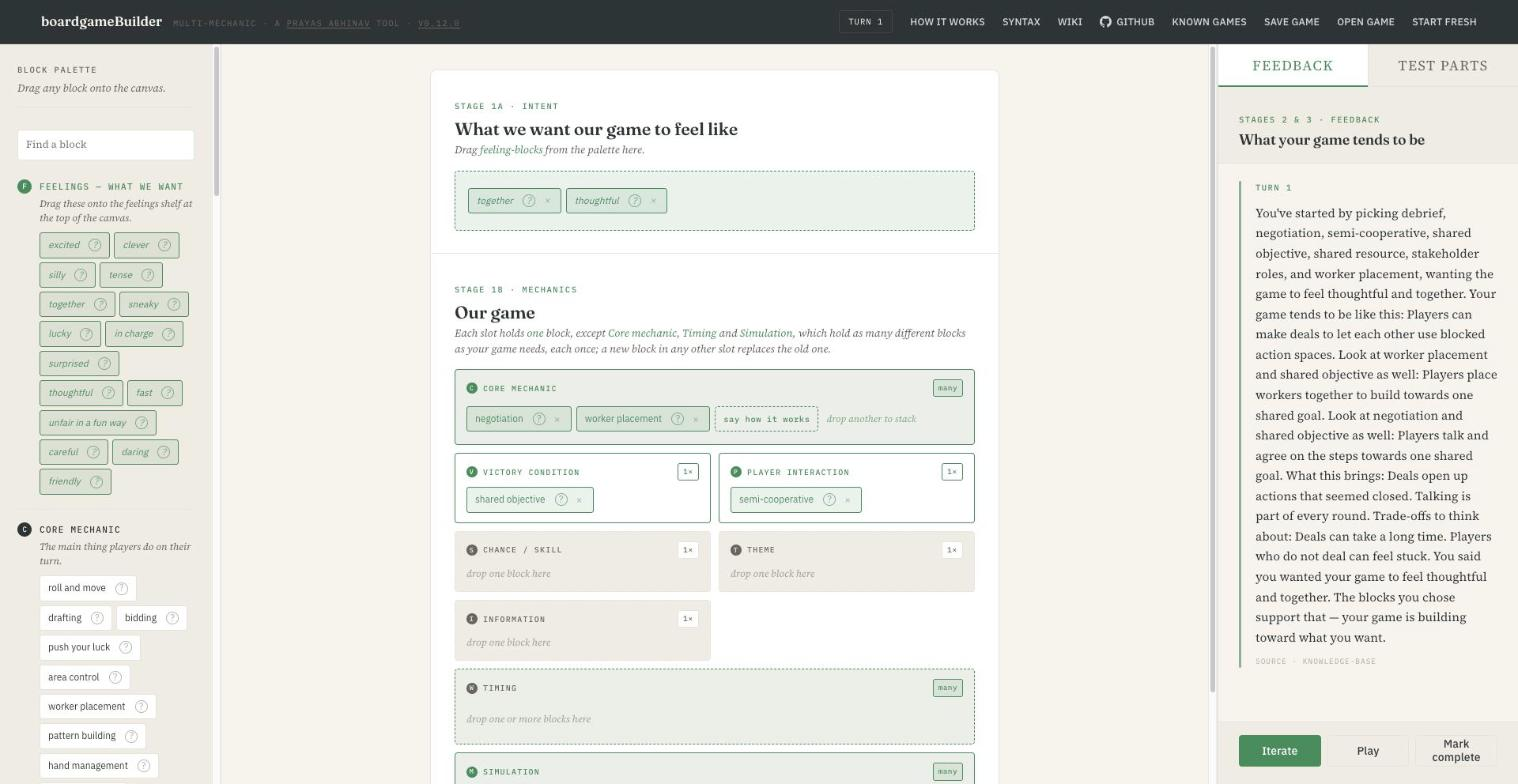
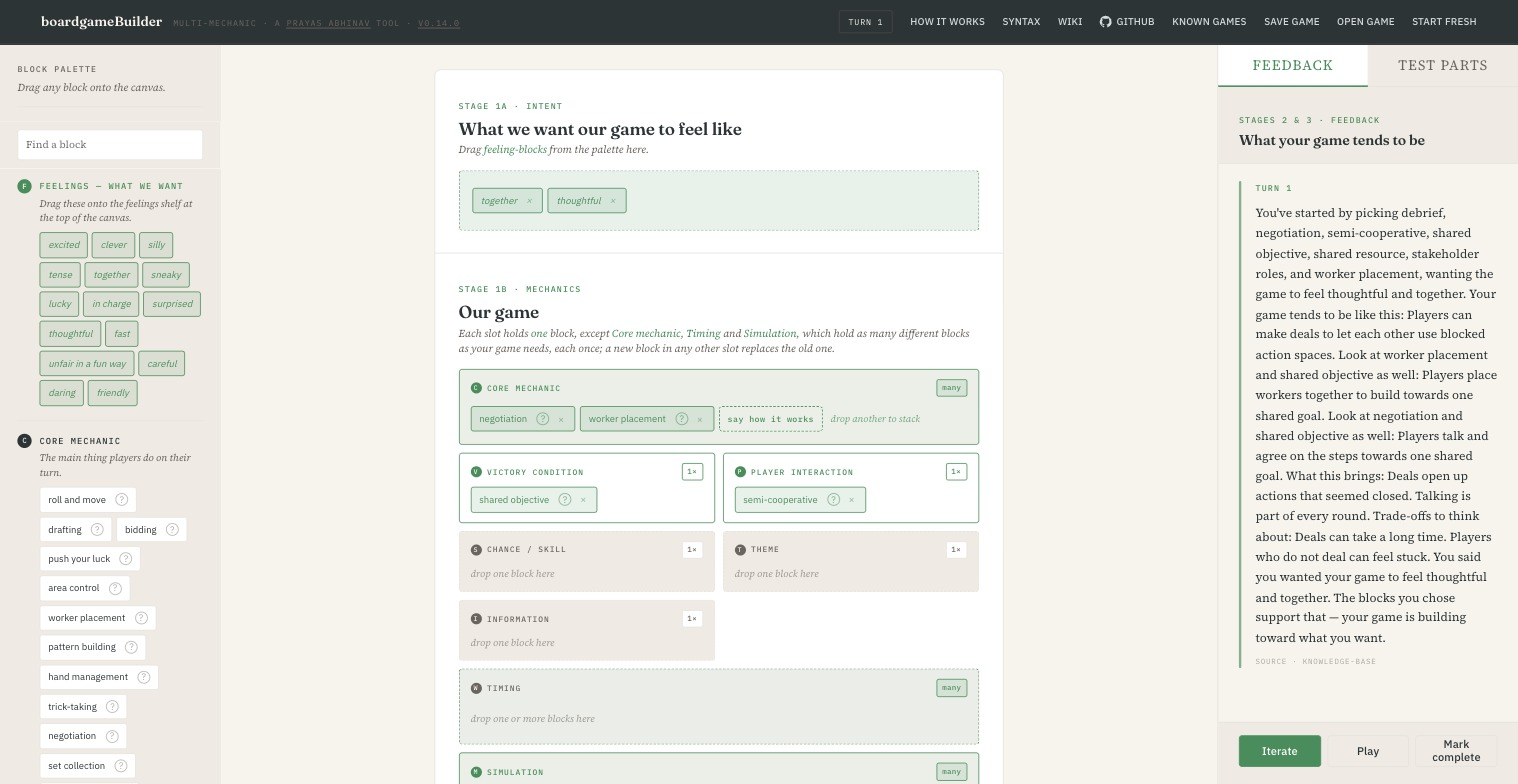
Add a gameplay box with @tags, and drop the ? from the feelings (0.14.0)
How our game plays sits under the slots: typing @ lists the blocks on the canvas by their box, and tagging a block tags its box, listed under the text and marked on the slot. The text is saved with the design and in Save game's file. The ? opened nothing for a feeling, so feelings no longer show one. The link-preview card is redrawn from a new screenshot.

diff --git a/static/app.js b/static/app.js
@@ -20,6 +20,7 @@ const state = {
   turnHistory: [],       // [{ turn: N, narration, source, kind: "turn"|"complete" }, ...]
   answers: {},           // { [blockId]: { [questionKey]: optionValue } } — answers to the questions asked when a block is placed
   tests: {},             // { [testKey]: { feelings, match, note } } — notes from the part tests
+  narrative: "",         // how the game plays, in the designer's words; "@Block" tags a block on the canvas
   pendingAnswers: null,
 };
 
@@ -36,6 +37,7 @@ function snapshot() {
     turnHistory: state.turnHistory,
     answers: state.answers,
     tests: state.tests,
+    narrative: state.narrative,
     savedAt: new Date().toISOString(),
   };
 }
@@ -64,6 +66,7 @@ function loadState() {
     state.turnHistory = Array.isArray(saved.turnHistory) ? saved.turnHistory : [];
     state.answers = saved.answers && typeof saved.answers === "object" ? saved.answers : {};
     state.tests = saved.tests && typeof saved.tests === "object" ? saved.tests : {};
+    state.narrative = typeof saved.narrative === "string" ? saved.narrative : "";
 
     // A block that has moved to another group since the design was saved goes with it (real-time span moved to Timing)
     for (const [dimId, value] of Object.entries(state.mechanics)) {
@@ -259,7 +262,9 @@ function createBlock(id, display, dim, { inSlot = false, meta = null } = {}) {
   label.textContent = display;
   el.appendChild(label);
 
-  // Info button (?). Tap → modal with description + SVG.
+  // Info button (?). Tap → modal with description + SVG. Mechanic blocks only: a feeling has no page to open
+  // (Prayas, 24 October 2026: "the feelings blocks question marks dont work - remove them").
+  if (dim !== "feeling") {
   const infoBtn = document.createElement("button");
   infoBtn.type = "button";
   infoBtn.className = "info-btn";
@@ -275,6 +280,7 @@ function createBlock(id, display, dim, { inSlot = false, meta = null } = {}) {
   infoBtn.addEventListener("mousedown", (e) => e.stopPropagation());
   infoBtn.addEventListener("dragstart", (e) => { e.preventDefault(); e.stopPropagation(); });
   el.appendChild(infoBtn);
+  }
 
   if (inSlot) {
     const x = document.createElement("span");
@@ -345,6 +351,7 @@ function seenOnboarding() {
 function renderMechanicsGrid() {
   const grid = document.getElementById("mechanicsGrid");
   grid.innerHTML = "";
+  queueMicrotask(renderNarrativeTags);   // re-mark the tagged boxes once the slots are drawn
   for (const dim of state.dimensions) {
     const slot = document.createElement("div");
     slot.className = "mechanic-slot";
@@ -455,6 +462,7 @@ function renderMechanicsGrid() {
 function renderFeelingsShelf() {
   const shelf = document.getElementById("feelingsShelf");
   shelf.innerHTML = "";
+  queueMicrotask(renderNarrativeTags);   // a block that leaves the shelf leaves the tags too
   if (state.chosenFeelings.length === 0) {
     const hint = document.createElement("div");
     hint.className = "empty-hint";
@@ -736,6 +744,7 @@ function setButtonsEnabled(on) {
 
 function applyLockedUi() {
   document.querySelector(".app-main").classList.add("locked");
+  document.getElementById("narrativeText").readOnly = true;
   document.getElementById("feedbackActions").style.display = "none";
 }
 
@@ -1362,6 +1371,111 @@ function renderCardsScene(svg, scene, make, W, H) {
 }
 
 
+// ── How our game plays: a narrative box with @tags ────────────────
+// Tagging a block tags the box it sits in on the canvas (its slot, or the feelings shelf), so each tag shows as part of its box
+// (Prayas, 24 October 2026: "When you tag an element all the the box it's inside of also gets tagged").
+
+// Every block on the canvas, with its box
+function canvasEntries() {
+  const feelings = state.chosenFeelings.map((id) => ({ id, display: displayOf(id), box: "feeling", boxLabel: "Feelings", letter: "♥" }));
+  const blocks = state.dimensions.flatMap((d) => [].concat(state.mechanics[d.id] || [])
+    .map((id) => ({ id, display: displayOf(id), box: d.id, boxLabel: d.slot_label, letter: dimensionLetter(d.id) })));
+  return [...feelings, ...blocks];
+}
+
+// The blocks tagged in the text: those on the canvas, and any tag whose block has since left it
+function narrativeTags(text = state.narrative) {
+  const onCanvas = canvasEntries().filter((e) => text.includes("@" + e.display));
+  const here = new Set(onCanvas.map((e) => e.display));
+  const gone = [...state.feelings, ...state.dimensions.flatMap((d) => d.blocks)]
+    .map((b) => b.display).filter((name) => !here.has(name) && text.includes("@" + name));
+  return { onCanvas, gone: [...new Set(gone)] };
+}
+
+function renderNarrativeTags() {
+  const { onCanvas, gone } = narrativeTags();
+  const boxes = new Map();
+  for (const e of onCanvas) {
+    if (!boxes.has(e.box)) boxes.set(e.box, { ...e, names: [] });
+    if (!boxes.get(e.box).names.includes(e.display)) boxes.get(e.box).names.push(e.display);
+  }
+  document.getElementById("narrativeTags").innerHTML = [...boxes.values()].map((b) =>
+    `<span class="narrative-tag"><span class="slot-letter">${escapeHtml(b.letter)}</span>${escapeHtml(b.boxLabel)} › <b>${b.names.map(escapeHtml).join(", ")}</b></span>`).join("")
+    + (gone.length ? `<span class="narrative-tag gone">no longer on the canvas: ${gone.map(escapeHtml).join(", ")}</span>` : "");
+  const tagged = new Set(onCanvas.map((e) => e.box));
+  document.querySelectorAll(".mechanic-slot").forEach((s) => s.classList.toggle("tagged", tagged.has(s.dataset.dim)));
+  document.getElementById("feelingsShelf").classList.toggle("tagged", tagged.has("feeling"));
+}
+
+let narrativeMenuAt = -1;   // the highlighted choice, or -1 when the menu is closed
+
+function narrativeQuery() {
+  const ta = document.getElementById("narrativeText");
+  const m = /@([^@\n]{0,40})$/.exec(ta.value.slice(0, ta.selectionStart));
+  return m ? { start: ta.selectionStart - m[0].length, q: m[1].toLowerCase() } : null;
+}
+
+function openNarrativeMenu() {
+  const menu = document.getElementById("narrativeMenu"), found = narrativeQuery();
+  if (!found || state.locked) { menu.hidden = true; narrativeMenuAt = -1; return; }
+  const all = canvasEntries();
+  const choices = all.filter((e) => e.display.toLowerCase().includes(found.q));
+  if (!choices.length) {
+    menu.innerHTML = `<div class="narrative-menu-empty">${all.length ? "No block on the canvas by that name." : "Put blocks on the canvas to tag them."}</div>`;
+    narrativeMenuAt = -1;
+  } else {
+    narrativeMenuAt = Math.min(Math.max(narrativeMenuAt, 0), choices.length - 1);
+    menu.innerHTML = choices.map((e, i) => `<button type="button" role="option" class="narrative-choice${i === narrativeMenuAt ? " on" : ""}" data-name="${escapeHtml(e.display)}">
+      <span class="slot-letter">${escapeHtml(e.letter)}</span><span class="choice-box">${escapeHtml(e.boxLabel)} ›</span> ${escapeHtml(e.display)}</button>`).join("");
+  }
+  menu.hidden = false;
+}
+
+function insertNarrativeTag(name) {
+  const ta = document.getElementById("narrativeText"), found = narrativeQuery();
+  if (!found) return;
+  const tag = "@" + name + " ";
+  ta.value = ta.value.slice(0, found.start) + tag + ta.value.slice(ta.selectionStart);
+  ta.selectionStart = ta.selectionEnd = found.start + tag.length;
+  ta.focus();
+  onNarrativeInput();
+}
+
+function onNarrativeInput() {
+  state.narrative = document.getElementById("narrativeText").value;
+  openNarrativeMenu();
+  renderNarrativeTags();
+  saveState();
+}
+
+function setupNarrative() {
+  const ta = document.getElementById("narrativeText"), menu = document.getElementById("narrativeMenu");
+  ta.value = state.narrative;
+  ta.readOnly = state.locked;
+  ta.addEventListener("input", onNarrativeInput);
+  ta.addEventListener("click", openNarrativeMenu);
+  ta.addEventListener("blur", () => setTimeout(() => { menu.hidden = true; narrativeMenuAt = -1; }, 150));
+  ta.addEventListener("keydown", (e) => {
+    if (menu.hidden) return;
+    const choices = menu.querySelectorAll(".narrative-choice");
+    if (e.key === "Escape") { menu.hidden = true; narrativeMenuAt = -1; return; }
+    if (!choices.length) return;
+    if (e.key === "ArrowDown" || e.key === "ArrowUp") {
+      e.preventDefault();
+      narrativeMenuAt = (narrativeMenuAt + (e.key === "ArrowDown" ? 1 : -1) + choices.length) % choices.length;
+      openNarrativeMenu();
+    } else if (e.key === "Enter" || e.key === "Tab") {
+      e.preventDefault();
+      insertNarrativeTag(choices[narrativeMenuAt].dataset.name);
+    }
+  });
+  menu.addEventListener("mousedown", (e) => {          // mousedown, so the textarea keeps its caret
+    const b = e.target.closest(".narrative-choice");
+    if (b) { e.preventDefault(); insertNarrativeTag(b.dataset.name); }
+  });
+  renderNarrativeTags();
+}
+
 // ── Save and open as Markdown ─────────────────────────────────────
 // The file reads as a record of the game, and ends with the saved state as JSON, which is what Open game reads back.
 
@@ -1385,6 +1499,14 @@ async function onSaveGame() {
   lines.push(...(rows.length ? rows : ["No blocks yet."]), "");
   const said = Object.keys(state.answers).filter((b) => answerSummary(b)).map((b) => `- ${displayOf(b)}: ${answerSummary(b, ", ")}`);
   if (said.length) lines.push("## How our blocks work", "", ...said, "");
+  if (state.narrative.trim()) {
+    lines.push("## How our game plays", "", state.narrative.trim(), "");
+    const { onCanvas } = narrativeTags();
+    const byBox = {};
+    for (const e of onCanvas) (byBox[e.boxLabel] ??= new Set()).add(e.display);
+    const tagRows = Object.entries(byBox).map(([box, names]) => `- ${box}: ${[...names].join("; ")}`);
+    if (tagRows.length) lines.push("Tagged, by box:", "", ...tagRows, "");
+  }
   const tried = Object.entries(state.tests).filter(([k]) => titles[k]).map(([k, r]) => `- ${titles[k]}: ` +
     [r.feelings.length && `it felt ${r.feelings.join(", ")}`, r.match && `matched what we wanted: ${r.match}`, r.note && `one thing we would change: ${r.note}`].filter(Boolean).join("; "));
   if (tried.length) lines.push("## What we tested", "", ...tried, "");
@@ -1448,6 +1570,7 @@ document.addEventListener("DOMContentLoaded", async () => {
   }
 
   setupFeelingsDropZone();
+  setupNarrative();
   document.getElementById("iterateBtn").addEventListener("click", onIterate);
   document.getElementById("completeBtn").addEventListener("click", onComplete);
   document.getElementById("gamesCloseBtn").addEventListener("click", leave);

diff --git a/static/index.html b/static/index.html
@@ -95,6 +95,21 @@
           <div class="mechanics-grid" id="mechanicsGrid"><!-- populated by app.js --></div>
         </div>
 
+        <div class="canvas-divider"></div>
+
+        <div class="canvas-region">
+          <div class="region-header">
+            <span class="region-eyebrow">Stage 1c · Gameplay</span>
+            <h2 class="region-title">How our game plays</h2>
+            <p class="region-hint">Write how the game goes. Type <em>@</em> to tag a block on the canvas; the box it sits in is tagged with it.</p>
+          </div>
+          <div class="narrative">
+            <textarea id="narrativeText" rows="6" spellcheck="true" placeholder="Each turn, a player…"></textarea>
+            <div class="narrative-menu" id="narrativeMenu" role="listbox" hidden></div>
+          </div>
+          <div class="narrative-tags" id="narrativeTags"></div>
+        </div>
+
       </div>
 
     </section>
@@ -121,12 +136,13 @@
         <ol class="onboarding-steps">
           <li><strong>Say how the game should feel.</strong> Drag a feeling, such as “tense” or “together”, from the left onto the shelf at the top.</li>
           <li><strong>Build the game.</strong> Drag blocks into the slots. Each block fits only its own slot. __MULTI_SLOTS__ hold as many different blocks as your game needs, each once; every other slot holds one, and a new block replaces the old one.</li>
+          <li><strong>Write how it plays.</strong> In the box under the slots, type <em>@</em> to tag a block on the canvas; the box it sits in is tagged with it.</li>
           <li><strong>Press Iterate.</strong> The tool looks up what your blocks tend to do together in a list prepared in advance, and says what is taking shape. Nothing is generated while you play.</li>
           <li><strong>Change something and press Iterate again.</strong> Each press is one turn. When you are done, press <em>Mark complete</em> for a closing summary.</li>
           <li><strong>Press Play to play it.</strong> The screen plays every block it has a rule for, with people or with players it moves by fixed rules, and lists what the people at the table do themselves.</li>
         </ol>
         <p class="onboarding-note"><em>Known games</em> in the header has short games to play with things at hand, then watch and answer questions about. <em>Test parts</em> beside the feedback has quick tests of one block at a time.</p>
-        <p class="onboarding-note">Press <strong>?</strong> on any block to see what it means. Your design stays in this browser; <em>Save game</em> downloads it as a file you can open again later, and <em>Start fresh</em> clears it.</p>
+        <p class="onboarding-note">Press <strong>?</strong> on any block to see what it means (the feelings have none). Your design stays in this browser; <em>Save game</em> downloads it as a file you can open again later, and <em>Start fresh</em> clears it.</p>
         <button class="k-btn-primary onboarding-start" id="onboardingStart" type="button">Start designing</button>
       </div>
     </div>

diff --git a/static/style.css b/static/style.css
@@ -399,6 +399,102 @@ body {
   opacity: 0.75;
 }
 
+/* ── How our game plays: the narrative box and its @tags ─────────── */
+
+.narrative { position: relative; }
+
+.narrative textarea {
+  width: 100%;
+  box-sizing: border-box;
+  min-height: 140px;
+  padding: 12px 14px;
+  font-family: var(--font-body);
+  font-size: 15px;
+  line-height: 1.55;
+  color: var(--ink);
+  background: white;
+  border: 1px solid var(--surface-border);
+  border-radius: 4px;
+  resize: vertical;
+}
+
+.narrative textarea:focus { outline: none; border-color: var(--accent); box-shadow: 0 0 0 3px var(--accent-bg); }
+.narrative textarea[readonly] { background: var(--surface-inner); }
+
+.narrative-menu {
+  position: absolute;
+  left: 0;
+  right: 0;
+  top: calc(100% + 4px);
+  z-index: 20;
+  max-height: 260px;
+  overflow-y: auto;
+  background: white;
+  border: 1px solid var(--accent);
+  border-radius: 4px;
+  box-shadow: 0 8px 24px rgba(45, 52, 54, 0.18);
+  padding: 4px;
+}
+
+.narrative-choice {
+  display: flex;
+  align-items: center;
+  gap: 8px;
+  width: 100%;
+  padding: 8px 10px;
+  border: 0;
+  border-radius: 3px;
+  background: none;
+  font-family: var(--font-label);
+  font-size: 14px;
+  color: var(--ink);
+  text-align: left;
+  cursor: pointer;
+}
+
+.narrative-choice.on, .narrative-choice:hover { background: var(--accent-bg); }
+.narrative-choice .choice-box { font-family: var(--font-mono); font-size: 11px; color: var(--ink3); }
+.narrative-menu-empty { padding: 8px 10px; font-family: var(--font-body); font-style: italic; font-size: 13px; color: var(--ink3); }
+
+.narrative-tags { display: flex; flex-wrap: wrap; gap: 6px; margin-top: 10px; }
+.narrative-tags:empty { display: none; }
+
+.narrative-tag {
+  display: inline-flex;
+  align-items: center;
+  gap: 6px;
+  padding: 4px 9px;
+  font-family: var(--font-mono);
+  font-size: 11px;
+  color: var(--ink2);
+  background: var(--accent-bg);
+  border: 1px solid var(--accent);
+  border-radius: 3px;
+}
+
+.narrative-tag b { font-family: var(--font-label); font-size: 12px; font-weight: 600; color: var(--ink); }
+.narrative-tag.gone { background: none; border-style: dashed; border-color: var(--surface-border); color: var(--ink3); }
+
+/* a box with a block tagged in the gameplay carries an @ at its corner */
+.mechanic-slot.tagged::after, .feelings-shelf.tagged::after {
+  content: "@";
+  position: absolute;
+  top: -9px;
+  right: -9px;
+  width: 20px;
+  height: 20px;
+  display: grid;
+  place-items: center;
+  font-family: var(--font-mono);
+  font-size: 11px;
+  font-weight: 600;
+  color: white;
+  background: var(--accent);
+  border-radius: 50%;
+}
+
+.feelings-shelf { position: relative; }
+
 /* ── Mechanics grid (slots) ─────────────────────────────────────── */
 
 .mechanics-grid {

diff --git a/README.md b/README.md
@@ -1,7 +1,7 @@
 # boardgameBuilder
 
 [![Live](https://img.shields.io/badge/live-boardgame.blevn.xyz-2e7d32?style=flat-square)](https://boardgame.blevn.xyz)
-[![Version](https://img.shields.io/badge/version-0.13.1-555555?style=flat-square)](CHANGELOG.md)
+[![Version](https://img.shields.io/badge/version-0.14.0-555555?style=flat-square)](CHANGELOG.md)
 [![Licence: AGPL v3](https://img.shields.io/badge/licence-AGPL--3.0-blue?style=flat-square)](LICENSE)
 [![Python 3.10+](https://img.shields.io/badge/python-3.10%2B-3776ab?style=flat-square&logo=python&logoColor=white)](https://www.python.org/)
 [![FastAPI](https://img.shields.io/badge/FastAPI-backend-009688?style=flat-square&logo=fastapi&logoColor=white)](https://fastapi.tiangolo.com/)
@@ -49,7 +49,7 @@ A small browser tool for designing a board game by putting blocks together and r
 The screen has three columns.
 
 - **Left: the palette.** The feelings at the top, then eight groups of blocks for the parts of a game. A search box above them shows only the blocks whose name or description holds the words typed, or a whole group when its name is typed; Esc clears it.
-- **Centre: the canvas.** A shelf for the feelings you want the game to have, and one slot for each group of blocks.
+- **Centre: the canvas.** A shelf for the feelings you want the game to have, one slot for each group of blocks, and a box below them for writing how the game plays.
 - **Right: the feedback.** Each press of **Iterate** reads the canvas and says what the combination tends to produce, what it brings, its trade-offs, any clash between blocks, whether the blocks serve the feelings you picked, and real games built on something similar where one has been checked.
 
 You change a block, press Iterate again and see what moved. **Mark complete** writes a closing summary and locks the canvas.
@@ -59,14 +59,15 @@ You change a block, press Iterate again and see what moved. **Mark complete** wr
 1. Drag one or more **feelings** (tense, clever, together, sneaky…) onto the shelf at the top.
 2. Drag **blocks** into the slots. A block only fits its own slot.
 3. **Core mechanic**, **Timing** and **Simulation** hold as many different blocks as your game needs, each once. Every other slot holds one, and a new block replaces the old one.
-4. Press **Iterate**. Each press is one turn of design; the panel keeps the history.
-5. Press the **?** on any block for a short description and a drawing.
-6. When a block has questions about how it works in your game, they open as you drop it; answer any you can, and change them later from the line under the block.
-7. **Test parts**, beside the feedback, has short tests of one block, or two together, to play with things at hand; say how each felt.
-8. Press **Play** to play the design on screen (see [Playing it on screen](#playing-it-on-screen)).
-9. Press **Mark complete** for the summary, which ends with your answers and test notes in your own terms. **Start fresh** in the header clears everything.
+4. Write **how the game plays** in the box under the slots. Type **@** to tag a block on the canvas: the box it sits in is tagged with it, the tags are listed under the text by box (*Core mechanic › roll and move*), and a tagged slot carries an **@** at its corner. A tag whose block has left the canvas is listed as no longer on it.
+5. Press **Iterate**. Each press is one turn of design; the panel keeps the history.
+6. Press the **?** on any block for a short description and a drawing. The feelings have none.
+7. When a block has questions about how it works in your game, they open as you drop it; answer any you can, and change them later from the line under the block.
+8. **Test parts**, beside the feedback, has short tests of one block, or two together, to play with things at hand; say how each felt.
+9. Press **Play** to play the design on screen (see [Playing it on screen](#playing-it-on-screen)).
+10. Press **Mark complete** for the summary, which ends with your answers and test notes in your own terms. **Start fresh** in the header clears everything.
 
-Your design is kept in your browser, so a refresh does not lose it. **Save game** in the header downloads it as a Markdown file: the feelings, the blocks and every turn of feedback, readable on its own, ending with the saved state. **Open game** reads that file back, in any browser or on another day, and carries on from the same turn. The steps also open on a first visit, and **How it works** in the header shows them again.
+Your design is kept in your browser, so a refresh does not lose it. **Save game** in the header downloads it as a Markdown file: the feelings, the blocks, how the game plays with its tags by box, and every turn of feedback, readable on its own, ending with the saved state. **Open game** reads that file back, in any browser or on another day, and carries on from the same turn. The steps also open on a first visit, and **How it works** in the header shows them again.
 
 Every view has its own address, so it can be linked, reloaded and reached with Back: `#games` for the known games, `#games/pig` for one of them, `#games/pig/watch` to watch it, `#how-it-works`, `#blocks/push-your-luck` for a block, `#tests` for the part tests, and `#play` to play the design on screen.
 

diff --git a/CHANGELOG.md b/CHANGELOG.md
@@ -4,6 +4,12 @@ What changed in boardgameBuilder and its wiki, newest first. The version is in `
 
 To add an entry: raise `VERSION` (the middle number for something people can use, the last for a fix), add a section at the top with the same number, the date and what changed, change the badge in `README.md`, and run `python check.py`.
 
+## 0.14.0 — 24 October 2026
+
+- **How our game plays**, a box on the canvas under the slots (*Stage 1c · Gameplay*), for writing how the game goes in your own words. Typing **@** lists the blocks on the canvas by the box they sit in; picking one puts the tag in the text, and tagging a block tags its box with it: the tags are listed under the text as *Core mechanic › roll and move*, and the slot carries an **@** at its corner. A tag whose block has since left the canvas is listed as no longer on it. The text is kept with the design, in **Save game**'s file (a section *How our game plays*, with its tags by box) and in **Open game**. Nothing reads it to make feedback.
+- The feelings no longer show a **?**. It opened nothing for a feeling; the mechanic blocks keep theirs.
+- The link-preview card (`static/og.png`) is redrawn from a new screenshot (`docs/screenshot.jpg`), showing 0.14.0 with no **?** on the feelings.
+
 ## 0.13.1 — 20 October 2026
 
 - The answers a player copies after a shared game also carry everything that happened in it, move by move, so whoever shared it can read the playtest as well as the answers.
